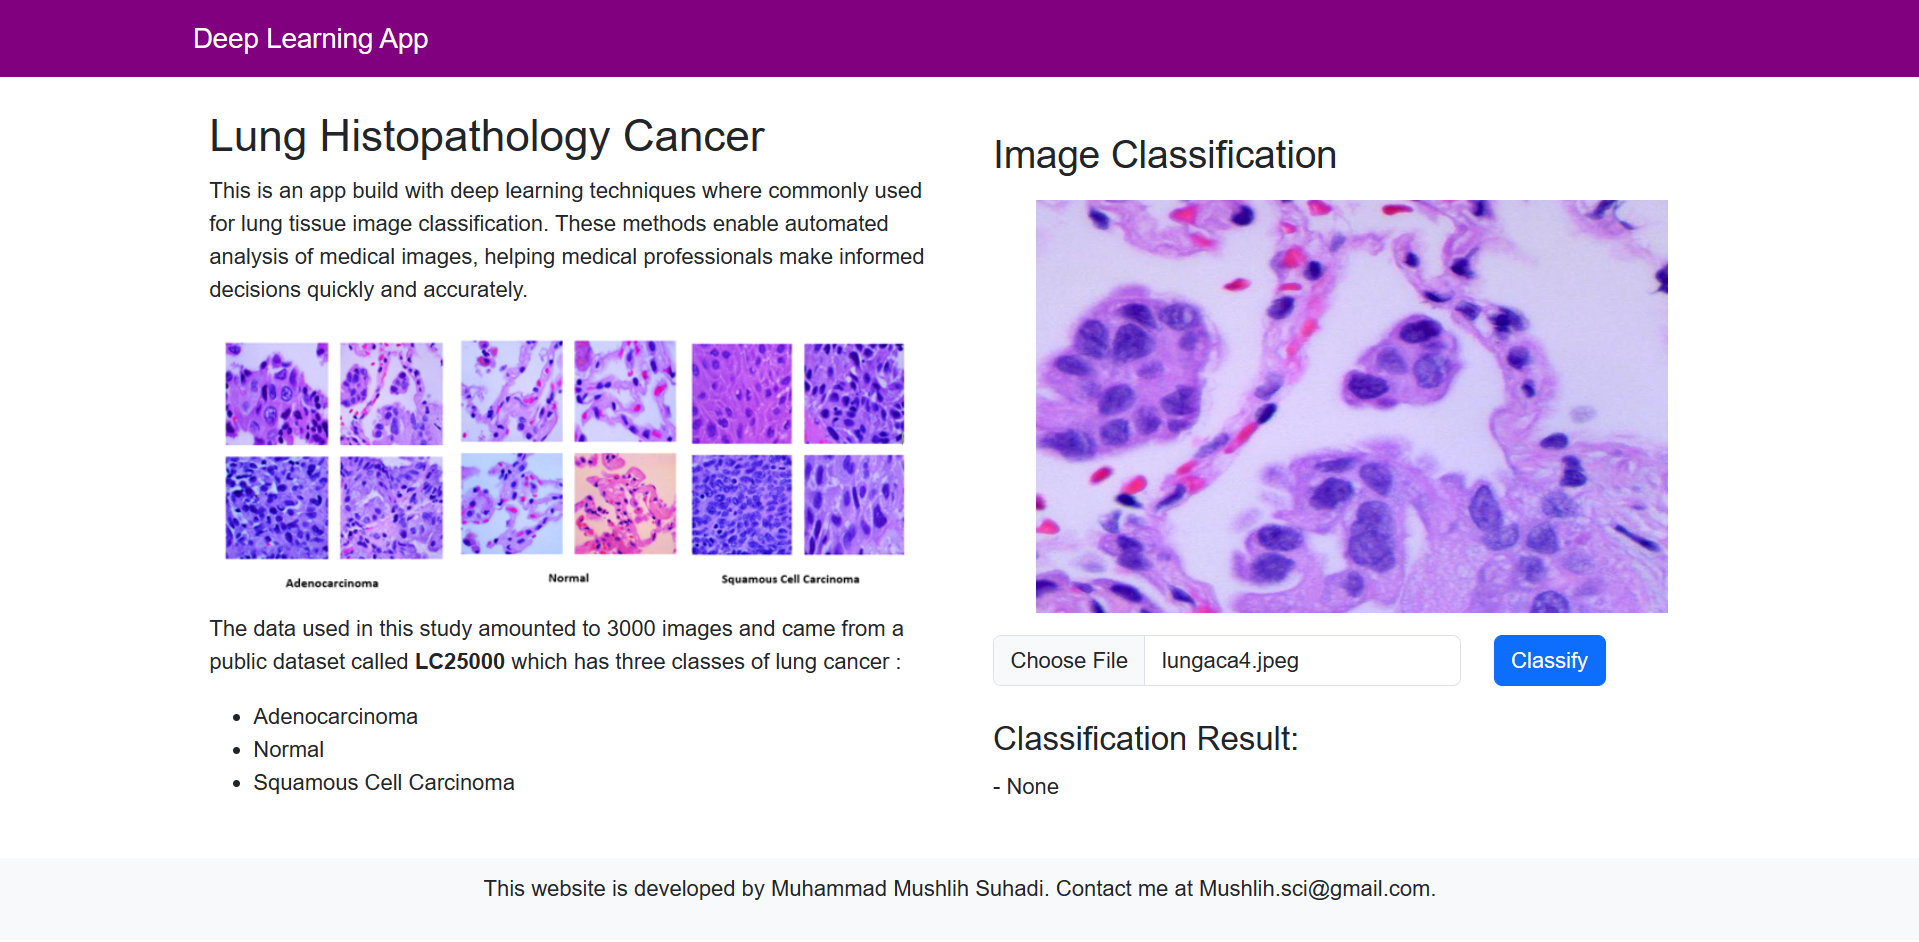
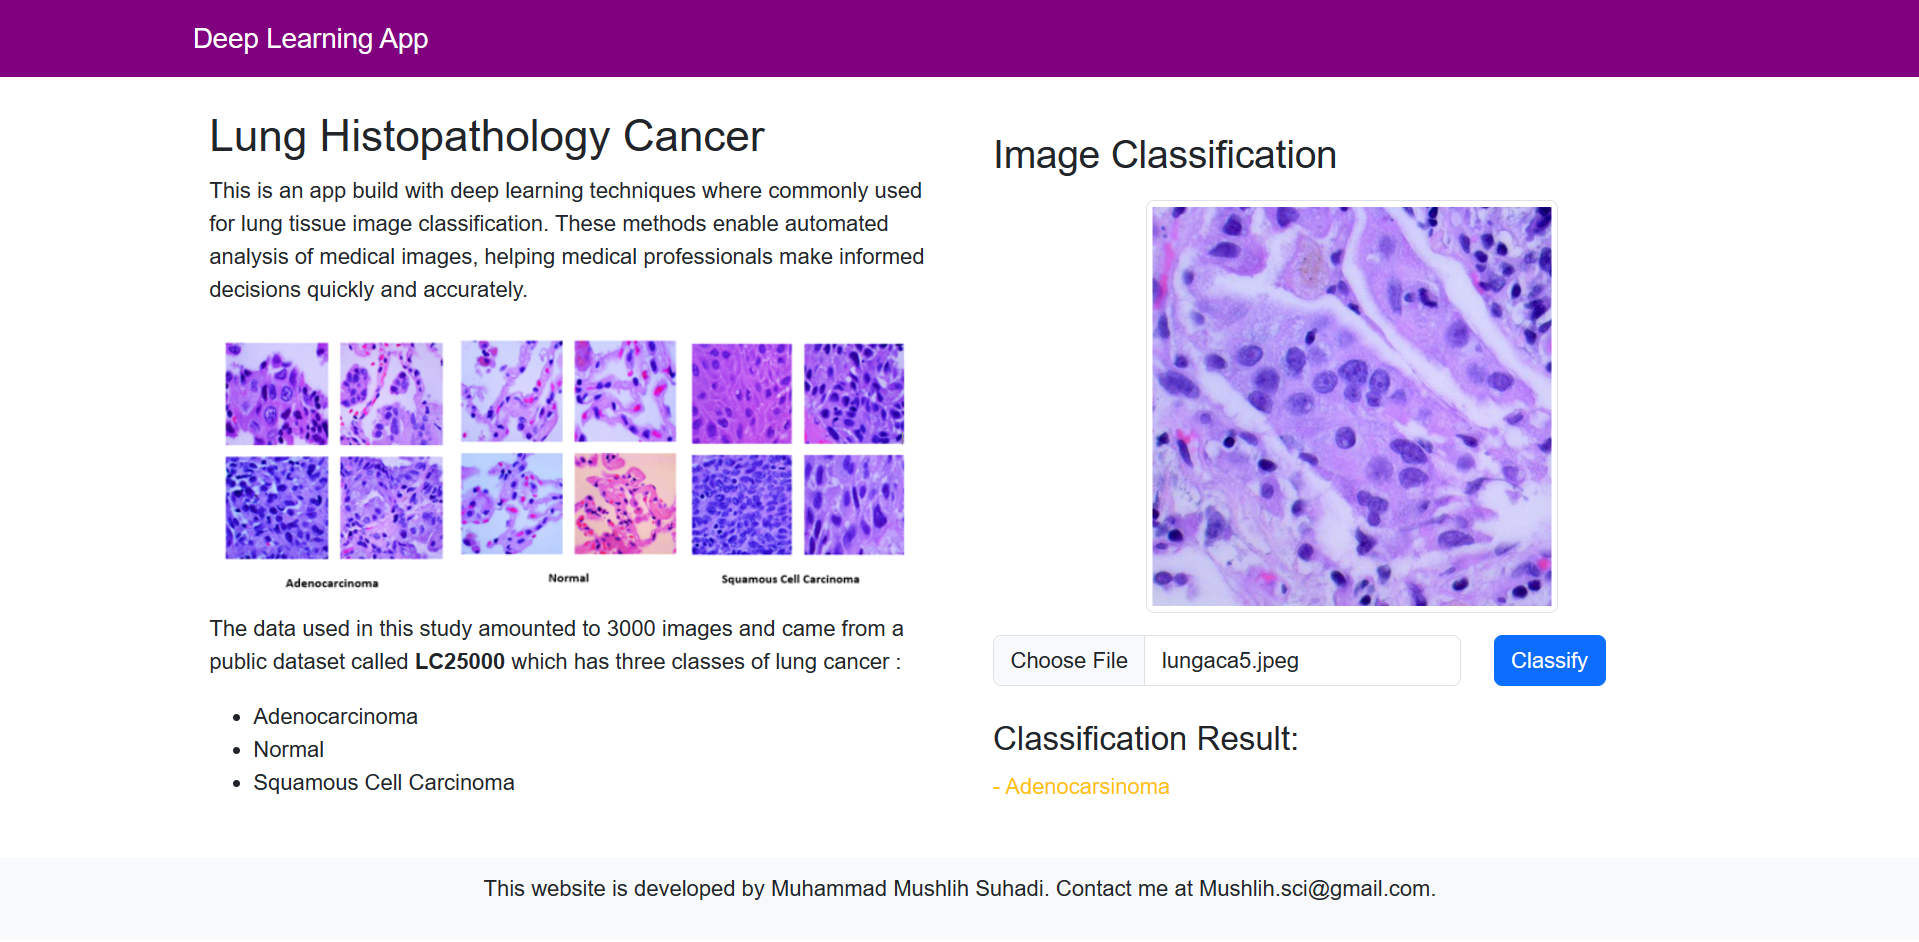
fix layout and and ajax post request

Changed region(s): [[0.5227, 0.1847, 0.8916, 0.6773], [0.5227, 0.8312, 0.6149, 0.862]]

diff --git a/templates/index.html b/templates/index.html
@@ -32,7 +32,7 @@
 
     <div class="container my-4">
       <div class="row">
-        <div class="col-md-6 px-4">
+        <div class="col-md-6 col-xs-12 px-4">
           <h2>Lung Histopathology Cancer</h2>
           <p class="text-justify">
             This is an app build with deep learning techniques where commonly
@@ -52,7 +52,7 @@
             </ul>
           </p>
         </div>
-        <div class="col-md-6 px-4">
+        <div class="col-md-6 col-xs-12 px-4">
           <h3 class="mt-3">Image Classification</h3>
           <form
             id="classification-form"
@@ -62,10 +62,11 @@
             {% csrf_token %}
             <div class="my-3 d-flex justify-content-center">
               <img
+              class="img-thumbnail "
                 id="uploaded-image"
-                src="{% static 'placeholder.jpg' %}"
+                src="{% static 'blank.jpg' %}"
                 alt="Upload an Image"
-                style="height: 300px; width: 460px"
+                style="max-height:300px"
               />
             </div>
             <div class="row">
@@ -80,13 +81,13 @@
                 />
               </div>
               <div class="col-4">
-                <button type="submit" class="btn btn-primary">Classify</button>
+                <button id="subm" type="submit" class="btn btn-primary">Classify</button>
               </div>
             </div>
           </form>
           <div class="result mt-4">
             <h4>Classification Result:</h4>
-            <p style = "color:{{ col }};">- {{ name | default:"None" }}</p>
+            <p id="result">- {{ name | default:"None" }}</p>
           </div>
         </div>
       </div>
@@ -101,7 +102,7 @@
       </div>
     </div>
 
-    <script src="https://cdn.jsdelivr.net/npm/bootstrap@5.3.0/dist/js/bootstrap.bundle.min.js"></script>
+    <script src="//ajax.googleapis.com/ajax/libs/jquery/1.10.1/jquery.min.js"></script>
     <script>
       function displayImage() {
         const input = document.getElementById("imageUpload");
@@ -109,7 +110,28 @@
         image.style.display = "block";
         image.src = URL.createObjectURL(input.files[0]);
       }
-      
+      $(document).ready(function() {
+        $('#classification-form').submit(function(e) {
+          e.preventDefault();
+          var formData = new FormData(this);
+
+          $.ajax({
+              type: 'POST',
+              url: '',  // Update with your URL
+              data: formData,
+              processData: false,
+              contentType: false,
+              success: function(response) {
+                  $('#result').html("- "+response.name);
+                  $('#result').removeClass();
+                  $('#result').addClass("font-weight-bold text-"+response.col);
+              },
+              error: function(error) {
+                  console.log(error);
+              }
+          });
+      });
+    });
     </script>
   </body>
 </html>

diff --git a/classify/views.py b/classify/views.py
@@ -1,5 +1,5 @@
 from django.shortcuts import render
-from django.http import HttpResponse
+from django.http import JsonResponse,HttpResponse
 from django.conf import settings
 from django.core.files.storage import default_storage
 import os
@@ -12,13 +12,13 @@ def index(request):
         f=request.FILES['sentFile']
         original = readimg(f)
         col=""
-        label, col = klasifikasi(settings.MYMODEL, original, col)
-
-        response = {}
-        response['name'] = str(label)
-        response['img'] = f.read
-        response['color'] = col
-        return render(request,'index.html', response)
+        label, col = klasifikasi(settings.LUNGMODEL, original, col)
+        
+        response = {
+            "name":str(label),
+            "col":col
+        }
+        return JsonResponse(response)
     else:
         return render(request,'index.html')
 
@@ -44,13 +44,13 @@ def klasifikasi(model, image, col):
     y_prediksi=np.argmax(prediksi, axis=1)[0]
     kelas=["Adenocarsinoma","Normal","Squamous Cell Carcinoma"]
     if y_prediksi == 0:
-        col="orange"
+        col="warning"
         out=kelas[0]
     elif y_prediksi == 1:
-        col="green"
+        col="success"
         out=kelas[1]
     elif y_prediksi == 2:
-        col="red"
+        col="danger"
         out=kelas[2]
     return out,col
     

diff --git a/lunghisto/settings.py b/lunghisto/settings.py
@@ -56,8 +56,7 @@ TEMPLATES = [
     {
         'BACKEND': 'django.template.backends.django.DjangoTemplates',
         'DIRS': [
-            os.path.join(BASE_DIR,"templates"),
-            os.path.join(BASE_DIR,"media"),
+            os.path.join(BASE_DIR,"templates")
         ],
         'APP_DIRS': True,
         'OPTIONS': {
@@ -119,7 +118,7 @@ USE_TZ = True
 # Static files (CSS, JavaScript, Images)
 # https://docs.djangoproject.com/en/4.2/howto/static-files/
 
-STATIC_URL = 'static/'
+STATIC_URL = '/static/'
 
 # Default primary key field type
 # https://docs.djangoproject.com/en/4.2/ref/settings/#default-auto-field
@@ -169,8 +168,10 @@ def loadmodel():
     model.load_weights(model_terbaik)
     return model
 
-MYMODEL = loadmodel()
-STATIC_ROOT = os.path.join(BASE_DIR, 'static')
+LUNGMODEL = loadmodel()
+STATICFILES_DIRS = [
+    os.path.join(BASE_DIR, "static"),
+]
 
 
 MEDIA_URL = '/media/'
